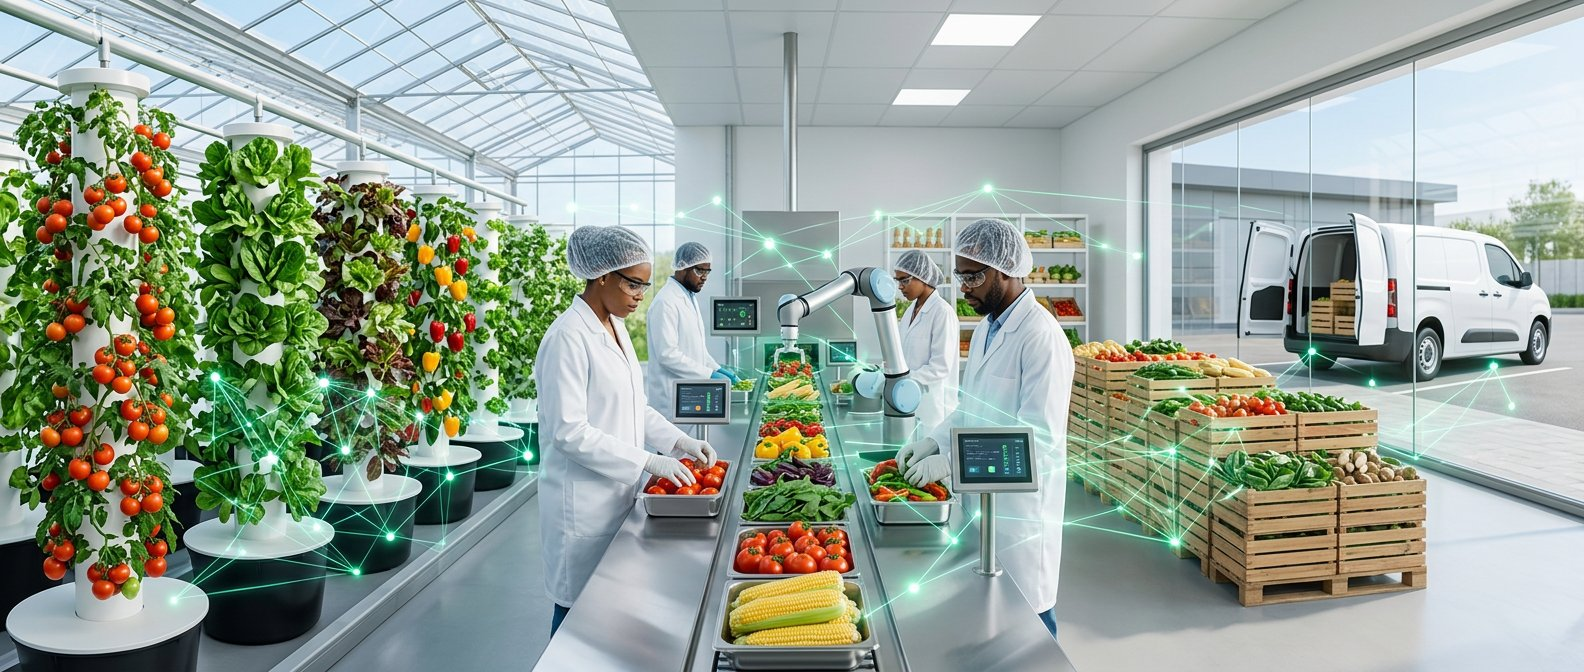
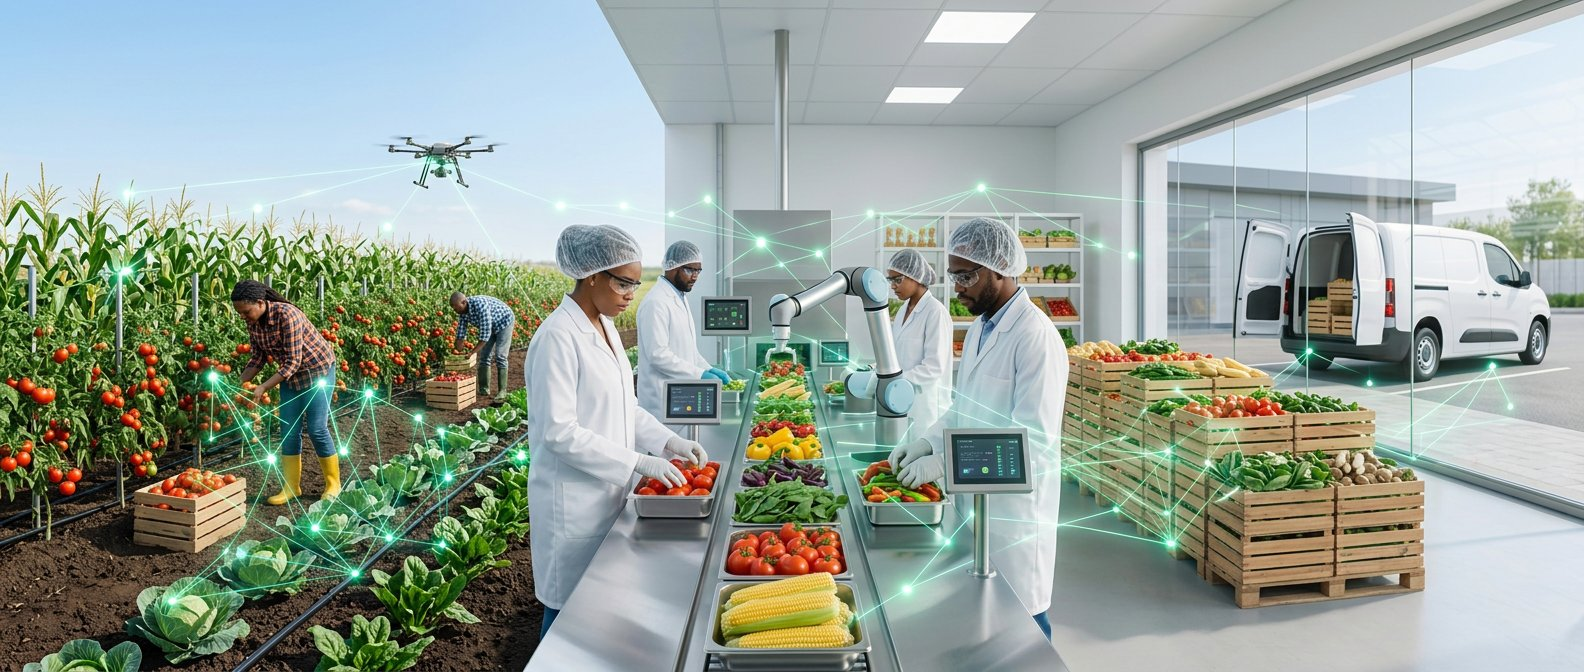
Phase 02 arch image: crops grown in open fields (not greenhouse) with drone monitoring, same realistic future-ready style

diff --git a/fr/index.html b/fr/index.html
@@ -724,7 +724,7 @@
     </style>
     <link rel="stylesheet" href="../assets/nutri4k.css">
     <link rel="preload" as="image" href="../assets/img/arch-phase1-intelligence.jpg?v=2">
-    <link rel="preload" as="image" href="../assets/img/arch-phase2-agribusiness.jpg?v=3">
+    <link rel="preload" as="image" href="../assets/img/arch-phase2-agribusiness.jpg?v=4">
 </head>
 
 <body>
@@ -787,8 +787,8 @@
                     </div>
                 </div>
                 <div class="box">
-                    <img class="boxImg" src="../assets/img/arch-phase2-agribusiness.jpg?v=3"
-                        alt="Une chaîne de valeur alimentaire saine africaine tournée vers l'avenir — serre hydroponique verticale, ligne de tri et de conditionnement en acier inoxydable avec bras robotisé, caisses de produits frais et fourgonnette électrique de livraison, reliées par un réseau de données vert lumineux de la production au marché"
+                    <img class="boxImg" src="../assets/img/arch-phase2-agribusiness.jpg?v=4"
+                        alt="Une chaîne de valeur alimentaire saine africaine tournée vers l'avenir — champs agricoles où des producteurs récoltent des rangées de tomates, de maïs et de légumes verts sous un drone de surveillance, ligne de tri et de conditionnement en acier inoxydable avec bras robotisé, caisses de produits frais et fourgonnette électrique de livraison, reliées par un réseau de données vert lumineux du champ au marché"
                         loading="lazy" decoding="async">
                     <span class="chip" style="background:#fff1d3;color:#8a661e">PHASE 02 •
                         AGRO-INDUSTRIE</span>

diff --git a/index.html b/index.html
@@ -1603,8 +1603,8 @@
                     </div>
                 </div>
                 <div class="box">
-                    <img class="boxImg" src="assets/img/arch-phase2-agribusiness.jpg?v=3"
-                        alt="A future-ready African healthy food value chain — vertical hydroponic greenhouse, stainless-steel sorting and packing line with a robotic arm, crates of fresh produce and an electric delivery van, linked by a glowing green data network from production to market"
+                    <img class="boxImg" src="assets/img/arch-phase2-agribusiness.jpg?v=4"
+                        alt="A future-ready African healthy food value chain — open farm fields with farmers harvesting rows of tomatoes, maize and greens under a monitoring drone, stainless-steel sorting and packing line with a robotic arm, crates of fresh produce and an electric delivery van, linked by a glowing green data network from field to market"
                         loading="lazy" decoding="async">
                     <span class="chip" style="background:#fff1d3;color:#8a661e">PHASE 02 •
                         AGRI-BUSINESS</span>
